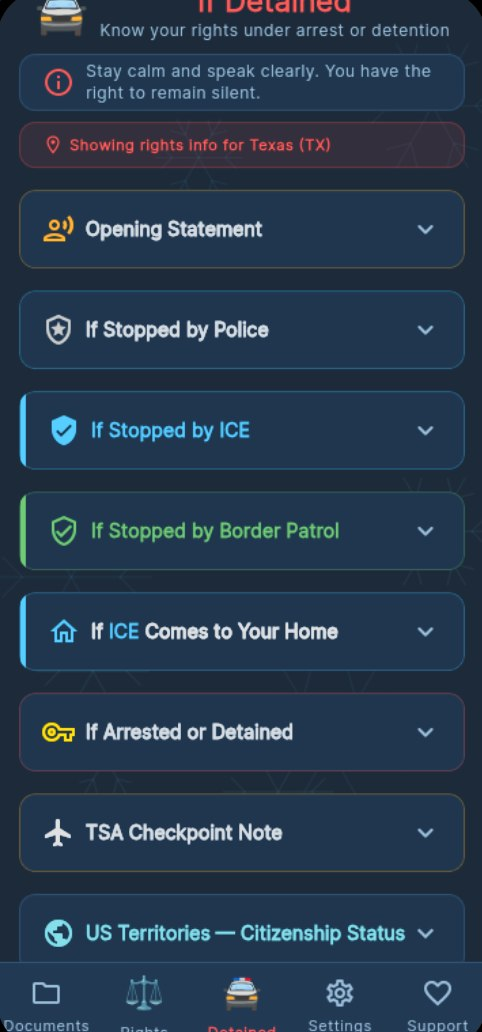
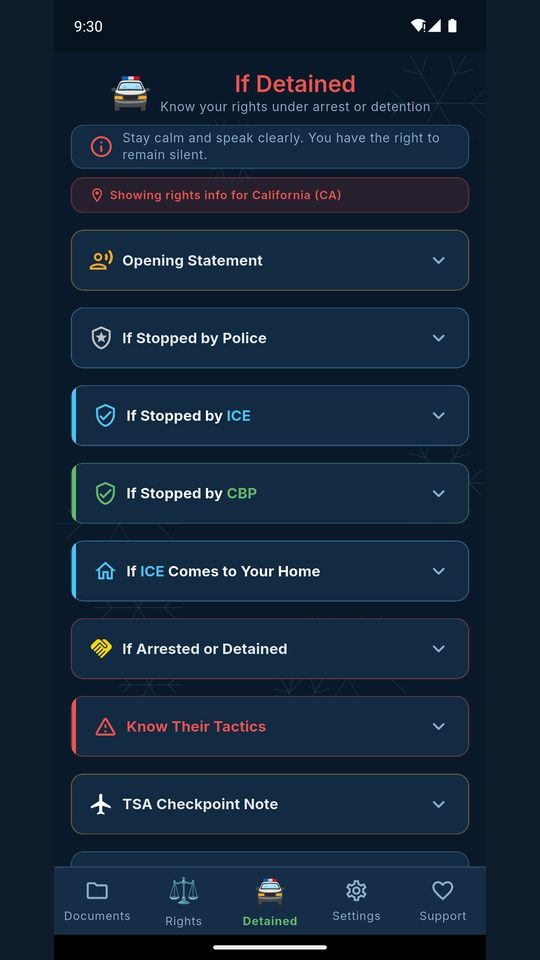
Phone preview: latest 5-card v2 (2.8.1) screenshots, matching the 2026-08-15 Play listing

diff --git a/index.html b/index.html
@@ -282,7 +282,7 @@ footer{border-top-color:var(--border);}
 <div class="facts-bar"><div class="ticker-track"><div class="ticker-group"><span class="fact-item">46 people died in ICE custody</span><span class="fact-item">Two-thirds held without charges</span><span class="fact-item">Girls 13-17 denied medical care</span><span class="fact-item">One death every 6 days</span><span class="fact-item">4,700 student visas terminated overnight</span></div><div class="ticker-group" aria-hidden="true"><span class="fact-item">46 people died in ICE custody</span><span class="fact-item">Two-thirds held without charges</span><span class="fact-item">Girls 13-17 denied medical care</span><span class="fact-item">One death every 6 days</span><span class="fact-item">4,700 student visas terminated overnight</span></div></div></div>
 <a href="#merch" class="merch-ribbon"><span class="merch-ribbon-tag">New</span><span>ICE Ready merch — tees from $22. Every purchase keeps the app free.</span><span class="merch-ribbon-cta">See the lineup →</span></a>
 <section class="section" id="features"><div class="section-label">Core Features</div><div class="section-title">Built For The Worst Case</div><div class="features-grid"><div class="feature"><div class="feature-num">01</div><div class="feature-icon">💳</div><h3>Document Vault</h3><p>Show your documents without handing them over. Copies of ID, passport, visa and birth certificate live on your phone, so the paper stays home — preventing your documents from going missing during an arrest or detention — and letting someone else find what you need to assist. Works offline. Stored only on your device, never uploaded.</p><span class="feature-tag">Keep the paper home. Carry the proof.</span></div><div class="feature"><div class="feature-num">02</div><div class="feature-icon">🛡</div><h3>Passcode Protection</h3><p>Step-by-step guidance to turn off Face ID and fingerprint unlock and set a strong phone passcode. Courts have repeatedly allowed police to compel a face or finger — a passcode is treated very differently.</p><span class="feature-tag">iPhone &amp; Android walkthroughs</span></div><div class="feature"><div class="feature-num">03</div><div class="feature-icon">📋</div><h3>Rights Cards</h3><p>Know your rights in your state, in your language. Refuse search scripts, lawyer contact scripts — instantly available.</p><span class="feature-tag">All 50 states</span></div><div class="feature"><div class="feature-num">04</div><div class="feature-icon">🎥</div><h3>Right to Record</h3><p>Know your right to record law enforcement in your state — with scripts for what to say while filming.</p><span class="feature-tag">Anyone near law enforcement</span></div><div class="feature"><div class="feature-num">05</div><div class="feature-icon">🔒</div><h3>Lock Screen Access</h3><p>Documents accessible without unlocking your phone. When hands are occupied or shaking — seconds matter.</p><span class="feature-tag">Coming in a free update</span></div><div class="feature"><div class="feature-num">06</div><div class="feature-icon">🎙</div><h3>Voice Trigger</h3><p>Hands-free activation when motor skills fail under stress. Trauma-informed design that competitors haven't considered.</p><span class="feature-tag">Coming in a free update</span></div></div></section>
-<section class="download-section" id="download"><div class="download-inner"><div class="download-copy"><div class="section-label">Download</div><h2>FREE. ALWAYS.</h2><p>ICE Ready is free for everyone. Every safety feature is free. No ads. No account. No paywall between a family and their rights.</p><p><strong>Your documents never leave your phone.</strong> Nothing is ever uploaded &mdash; there is no server, no account, no cloud. We couldn&rsquo;t see your documents if we wanted to.</p><div class="store-buttons"><!-- APPLE LAUNCH DAY: when the App Store approves, make the same swap on the App Store link below (remove coming-soon/aria-disabled/tabindex, set the App Store URL) --><a href="https://play.google.com/store/apps/details?id=com.icyberaillc.iceready" class="store-btn" rel="noopener"><img src="badges/google-play-badge.png" alt="Get it on Google Play" style="height:64px;width:auto;display:block;margin:-6px 0;"></a><a href="#" class="store-btn coming-soon" aria-disabled="true" tabindex="-1"><img src="badges/app-store-badge.svg" alt="Download on the App Store — coming soon" style="height:44px;width:auto;display:block;"></a><a href="https://app.primio.dev/ice-ready-456a" class="store-btn" rel="noopener"><div class="store-btn-icon">🌐</div><div class="store-btn-text"><small>Web demo — preview only</small><strong>Try in Browser</strong></div></a></div></div><div class="phone-wrap"><div class="phone-frame"><div class="phone-screen"><div class="phone-view"><div class="phone-cover"><div class="phone-app-header"><div class="phone-logo-dot">🧊</div><div class="phone-app-name">ICE READY</div></div><div class="phone-card"><div class="phone-card-label">Passport</div><div class="phone-card-title">US Passport</div></div><div class="phone-card"><div class="phone-card-label">Your Rights · California</div><div class="phone-card-title">You have the right to remain silent</div></div><div class="phone-card"><div class="phone-card-label">Emergency Contact</div><div class="phone-card-title">Attorney on file</div></div><div class="phone-record-btn">TAP TO RECORD</div></div><img class="phone-shot" alt="ICE Ready app screenshot"></div><div class="phone-tabbar"><!-- INTERIM: Settings/Support tabs removed until screenshots are retaken from the shipped v1.0.0 build (old shots show removed paywall/tip prices) --><button class="ptab" data-tab="documents" type="button"><span>📁</span>Documents</button><button class="ptab" data-tab="rights" type="button"><span>⚖</span>Rights</button><button class="ptab" data-tab="detained" type="button"><span>🚓</span>Detained</button></div></div></div><p class="phone-hint">▲ Tap a tab to preview the real app</p></div></div></section>
+<section class="download-section" id="download"><div class="download-inner"><div class="download-copy"><div class="section-label">Download</div><h2>FREE. ALWAYS.</h2><p>ICE Ready is free for everyone. Every safety feature is free. No ads. No account. No paywall between a family and their rights.</p><p><strong>Your documents never leave your phone.</strong> Nothing is ever uploaded &mdash; there is no server, no account, no cloud. We couldn&rsquo;t see your documents if we wanted to.</p><div class="store-buttons"><!-- APPLE LAUNCH DAY: when the App Store approves, make the same swap on the App Store link below (remove coming-soon/aria-disabled/tabindex, set the App Store URL) --><a href="https://play.google.com/store/apps/details?id=com.icyberaillc.iceready" class="store-btn" rel="noopener"><img src="badges/google-play-badge.png" alt="Get it on Google Play" style="height:64px;width:auto;display:block;margin:-6px 0;"></a><a href="#" class="store-btn coming-soon" aria-disabled="true" tabindex="-1"><img src="badges/app-store-badge.svg" alt="Download on the App Store — coming soon" style="height:44px;width:auto;display:block;"></a><a href="https://app.primio.dev/ice-ready-456a" class="store-btn" rel="noopener"><div class="store-btn-icon">🌐</div><div class="store-btn-text"><small>Web demo — preview only</small><strong>Try in Browser</strong></div></a></div></div><div class="phone-wrap"><div class="phone-frame"><div class="phone-screen"><div class="phone-view"><div class="phone-cover"><div class="phone-app-header"><div class="phone-logo-dot">🧊</div><div class="phone-app-name">ICE READY</div></div><div class="phone-card"><div class="phone-card-label">Passport</div><div class="phone-card-title">US Passport</div></div><div class="phone-card"><div class="phone-card-label">Your Rights · California</div><div class="phone-card-title">You have the right to remain silent</div></div><div class="phone-card"><div class="phone-card-label">Emergency Contact</div><div class="phone-card-title">Attorney on file</div></div><div class="phone-record-btn">TAP TO RECORD</div></div><img class="phone-shot" alt="ICE Ready app screenshot"></div><div class="phone-tabbar"><!-- v2 (2.8.1) screenshots, 2026-08-15 — same 5-card set as the Play listing --><button class="ptab" data-tab="passcode" type="button"><span>🛡</span>Passcode</button><button class="ptab" data-tab="documents" type="button"><span>📁</span>Documents</button><button class="ptab" data-tab="rights" type="button"><span>⚖</span>Rights</button><button class="ptab" data-tab="detained" type="button"><span>🚓</span>Detained</button><button class="ptab" data-tab="hotlines" type="button"><span>📞</span>Hotlines</button></div></div></div><p class="phone-hint">▲ Tap a tab to preview the real app</p></div></div></section>
 <section class="merch-section" id="merch"><div class="merch-inner"><div class="section-label">Store · Drop 001</div><div class="section-title">Wear The Movement</div><p class="merch-sub"><strong>Every purchase keeps the app free.</strong> No ads, no data selling, no paywall between a family and their rights — merch is how this stays true. Join the waitlist and you'll get first access when the drop goes live.</p><div class="merch-grid"><div class="merch-card"><div class="merch-img"><img src="balon-full-flags-640.webp" alt="El Balón de las Américas — Full Flags ball: 19 flags edge to edge, gold trophy panel" loading="lazy" decoding="async" style="width:100%;height:100%;object-fit:cover;display:block;"><span class="merch-flag">19 Naciones</span></div><div class="merch-info"><div class="merch-title-row"><h4>El Balón de las Américas — Full Flags</h4><span class="merch-price">Coming Soon</span></div><p>Every hexagon a nation. The flags of 19 Spanish-speaking countries of the Américas, printed edge to edge, with a gold trophy panel for the host. Size 5, match-quality, made to play.</p><a href="mailto:support@iceready.app?subject=Waitlist: Full Flags Ball" class="merch-notify">Join the waitlist</a></div></div><div class="merch-card"><div class="merch-img"><img src="balon-little-flags-640.webp" alt="El Balón de las Américas — Little Flags ball: small flags on white, nickel trophy" loading="lazy" decoding="async" style="width:100%;height:100%;object-fit:cover;display:block;"><span class="merch-flag">Las Américas Unidas</span></div><div class="merch-info"><div class="merch-title-row"><h4>El Balón de las Américas — Little Flags</h4><span class="merch-price">Coming Soon</span></div><p>The collector&rsquo;s cut. 19 small flags on clean white panels — Puerto Rico in its original celeste — with a brushed-nickel trophy carrying the Américas on its face. <em>Las Américas Unidas.</em></p><a href="mailto:support@iceready.app?subject=Waitlist: Little Flags Ball" class="merch-notify">Join the waitlist</a></div></div><div class="merch-card"><div class="merch-img"><img src="balon-gold-title-640.webp" alt="El Balón de las Américas — Gold Title ball: the name in gold and white across three panels, gold trophy below" loading="lazy" decoding="async" style="width:100%;height:100%;object-fit:cover;display:block;"><span class="merch-flag">Edición de Oro</span></div><div class="merch-info"><div class="merch-title-row"><h4>El Balón de las Américas — Gold Title</h4><span class="merch-price">Coming Soon</span></div><p>The name says it — in gold. <em>EL BALÓN DE LAS AMÉRICAS</em> written across three panels, white and gold arcing over the golden trophy. All 19 flags still ride the ball. Size 5, match-quality, made to play.</p><a href="mailto:support@iceready.app?subject=Waitlist: Gold Title Ball" class="merch-notify">Join the waitlist</a></div></div><div class="merch-card"><div class="merch-img"><svg viewBox="0 0 220 200" id="logo-tee-svg" role="img" aria-label="ICE Ready logo tee mockup"><defs><linearGradient id="t1b" x1="0" y1="0" x2="0" y2="1"><stop id="t1b-top" offset="0" stop-color="#ffffff"/><stop id="t1b-bot" offset="1" stop-color="#dff0fa"/></linearGradient></defs><ellipse cx="110" cy="188" rx="62" ry="7" fill="#000" opacity="0.45"/><path id="t1b-body" d="M78,26 L96,18 Q110,32 124,18 L142,26 L174,46 L160,76 L144,65 L144,174 Q110,181 76,174 L76,65 L60,76 L46,46 Z" fill="url(#t1b)" stroke="#cdd6df" stroke-width="1.5"/><path id="t1b-collar" d="M96,18 Q110,34 124,18 Q110,44 96,18" fill="#d3dbe3"/><path d="M144,65 L144,174 Q127,178 110,178 L110,72 Z" fill="#000" opacity="0.07"/><polygon points="62,42 88,30 72,168 52,158" fill="#000" opacity="0.03"/><image id="logo-tee-img" href="shield-logo-128.webp" x="119" y="58" width="21" height="21"/></svg><span class="merch-flag">Front + Back</span></div><div class="merch-info"><div class="tee-swatches"><button class="tee-swatch swatch-active" data-top="#ffffff" data-bot="#dff0fa" data-collar="#d3dbe3" data-stroke="#cdd6df" data-logo="iceblue_logo-128.webp" style="background:#fff;" title="White"></button><button class="tee-swatch" data-top="#d0dce8" data-bot="#b8c8d8" data-collar="#b0c0d0" data-stroke="#9aaabb" data-logo="iceblue_logo-128.webp" style="background:#c0ceda;" title="Light Grey"></button><button class="tee-swatch" data-top="#4a5568" data-bot="#2d3748" data-collar="#3d4a5c" data-stroke="#5a6a7a" data-logo="ice_ready_fixed-128.webp" style="background:#3d4a5c;" title="Dark Grey"></button><button class="tee-swatch" data-top="#1a1a22" data-bot="#0a0a10" data-collar="#252530" data-stroke="#3a3a48" data-logo="ice_ready_fixed-128.webp" style="background:#111;" title="Black"></button></div><div class="merch-title-row"><h4>ICE Ready Logo Tee</h4><span class="merch-price">$22</span></div><p>White heavyweight cotton. Logo on the left chest. ICE READY APP in icicle blue across the back with a scannable QR code beneath — close enough to read it, close enough to scan it.</p><a href="mailto:support@iceready.app?subject=Waitlist: Logo Tee" class="merch-notify">Join the waitlist</a></div></div><div class="merch-card"><div class="merch-img"><svg viewBox="0 0 220 200" role="img" aria-label="Taco Break mug mockup"><defs><linearGradient id="mgb" x1="0" y1="0" x2="1" y2="0"><stop offset="0" stop-color="#fafcfe"/><stop offset="0.7" stop-color="#e3eaef"/><stop offset="1" stop-color="#c3cdd6"/></linearGradient><linearGradient id="mshade" x1="0" y1="0" x2="1" y2="0"><stop offset="0" stop-color="#fff" stop-opacity="0.2"/><stop offset="0.35" stop-color="#fff" stop-opacity="0"/><stop offset="0.85" stop-color="#000" stop-opacity="0.16"/><stop offset="1" stop-color="#000" stop-opacity="0.3"/></linearGradient><clipPath id="mclip"><path d="M62,60 Q62,52 72,52 L138,52 Q148,52 148,60 L148,160 Q148,172 134,172 L76,172 Q62,172 62,160 Z"/></clipPath></defs><ellipse cx="108" cy="182" rx="58" ry="7" fill="#000" opacity="0.45"/><path d="M148,80 Q188,84 184,112 Q180,140 148,142" fill="none" stroke="#b9c4cd" stroke-width="13"/><path d="M148,80 Q188,84 184,112 Q180,140 148,142" fill="none" stroke="#eef2f5" stroke-width="9"/><path d="M62,60 Q62,52 72,52 L138,52 Q148,52 148,60 L148,160 Q148,172 134,172 L76,172 Q62,172 62,160 Z" fill="url(#mgb)"/><ellipse cx="105" cy="53" rx="43" ry="7" fill="#dfe6ec"/><ellipse cx="105" cy="53" rx="36" ry="5" fill="#aeb9c2"/><image href="taco_chihuahua.jpg" x="62" y="58" width="86" height="114" preserveAspectRatio="xMidYMid slice" clip-path="url(#mclip)"/><path d="M62,60 Q62,52 72,52 L138,52 Q148,52 148,60 L148,160 Q148,172 134,172 L76,172 Q62,172 62,160 Z" fill="url(#mshade)"/></svg></div><div class="merch-info"><div class="merch-title-row"><h4>Taco Break Mug</h4><span class="merch-price">$14</span></div><p>The schoolyard chihuahua &ldquo;Roo Roo,&rdquo; mid-taco, leaning on the wall where &ldquo;give me your tired, your poor&rdquo; is sprayed in graffiti script. ICE READY in icicle blue on the flip side.</p><a href="mailto:support@iceready.app?subject=Waitlist: Taco Break Mug" class="merch-notify">Join the waitlist</a></div></div><div class="merch-card"><div class="merch-img"><div class="sticker-pager" id="sticker-pager"><div class="sticker-page sticker-page-active" data-page="0"><div class="sticker-item"><img src="sticker-shield-sq.webp" alt="ICE Ready shield sticker" loading="lazy" decoding="async"></div><div class="sticker-item"><img src="sticker-gator-sq.webp" alt="Cuba alligator sticker - LEGO-style gator in Cuba cap and tee" loading="lazy" decoding="async"></div><div class="sticker-item"><img src="sticker-mex-kid-sq.webp" alt="Mexico Kid sticker - chihuahua boy with MEXICO shirt and Mexico flag cap" loading="lazy" decoding="async"></div><div class="sticker-item"><img src="sticker-peru-kid-sq.webp" alt="Peru Kid sticker - chihuahua with Peru flag cap" loading="lazy" decoding="async"></div></div><div class="sticker-page" data-page="1"><div class="sticker-item"><img src="sticker-cube-black-sq.webp" alt="Melting ice cube sticker — Statue of Liberty poem" loading="lazy" decoding="async"></div><div class="sticker-item"><img src="sticker-cube-clear-sq.webp" alt="Melting ice cube sticker — Know Your Rights" loading="lazy" decoding="async"></div><div class="sticker-item"><img src="sticker-spike-sq.webp" alt="Spike vs. the melting Blockhead sticker" loading="lazy" decoding="async"></div></div><div class="sticker-pager-nav"><span class="sticker-pager-dots" id="sticker-pager-dots">1/2</span><button type="button" class="sticker-pager-btn" id="sticker-pager-next" aria-label="Next sticker set">&gt;</button></div></div></div><div class="merch-info"><div class="merch-title-row"><h4>Sticker Pack</h4><span class="merch-price">$5</span></div><p>Die-cut vinyl stickers, two sets to choose from: the ICE Ready shield, the Cuba gator, Mex Kid and Peru Kid &mdash; or flip to two melting ice cubes (Statue of Liberty poem &amp; Know Your Rights) plus Spike vs. the melting Blockhead. Weatherproof.</p><a href="mailto:support@iceready.app?subject=Waitlist: Sticker Pack" class="merch-notify">Join the waitlist</a></div></div><div class="merch-card"><div class="merch-img"><img id="cap-photo" src="ice_ready_cap_lightblue.webp" alt="ICE Ready cap — front-facing trucker cap with shield logo on the front panel" loading="lazy" decoding="async" style="width:100%;height:100%;object-fit:cover;display:block;"></div><div class="merch-info"><div class="cap-swatches"><button class="cap-swatch swatch-active" data-photo="ice_ready_cap_lightblue.webp" style="background:#7ec8f0;" title="Light Blue / Nickel"></button><button class="cap-swatch" data-photo="ice_ready_cap_navy.webp" style="background:#1c2f4a;" title="Navy / Gunmetal"></button></div><div class="merch-title-row"><h4>ICE Ready Cap</h4><span class="merch-price">$22</span></div><p>White structured 6-panel. ICE READY in icicle blue across the front, fine print beneath: Know Your Rights &middot; iceready.app. Adjustable strap. Available in light blue (nickel shield) or navy (gunmetal shield).</p><a href="mailto:support@iceready.app?subject=Waitlist: Cap" class="merch-notify">Join the waitlist</a></div></div><div class="merch-card"><div class="merch-img"><svg viewBox="0 0 220 200" role="img" aria-label="Canvas tote mockup"><defs><linearGradient id="totb" x1="0" y1="0" x2="1" y2="1"><stop offset="0" stop-color="#e2d8bd"/><stop offset="1" stop-color="#c2b48e"/></linearGradient><linearGradient id="tottx" x1="0" y1="0" x2="0" y2="1"><stop offset="0" stop-color="#dff6ff"/><stop offset="1" stop-color="#00c8ff"/></linearGradient></defs><ellipse cx="110" cy="188" rx="58" ry="7" fill="#000" opacity="0.45"/><path d="M84,66 Q84,28 110,28 Q136,28 136,66" fill="none" stroke="#9c8c64" stroke-width="7"/><path d="M84,66 Q84,30 110,30 Q136,30 136,66" fill="none" stroke="#b8a87e" stroke-width="4"/><path d="M60,64 L160,64 L154,180 Q110,187 66,180 Z" fill="url(#totb)" stroke="#a4946a" stroke-width="1"/><path d="M75,70 L72,176 M145,70 L148,176" stroke="#000" opacity="0.08" stroke-width="2" fill="none"/><text x="110" y="104" text-anchor="middle" font-family="'Bebas Neue',sans-serif" font-size="21" letter-spacing="2" fill="#16202e">KNOW</text><text x="110" y="126" text-anchor="middle" font-family="'Bebas Neue',sans-serif" font-size="21" letter-spacing="2" fill="#16202e">YOUR</text><text x="110" y="148" text-anchor="middle" font-family="'Bebas Neue',sans-serif" font-size="21" letter-spacing="2" fill="#16202e">RIGHTS</text><text x="110" y="164" text-anchor="middle" font-family="'Bebas Neue',sans-serif" font-size="8" letter-spacing="1.5" fill="url(#tottx)">ICE READY APP</text></svg></div><div class="merch-info"><div class="merch-title-row"><h4>Canvas Tote</h4><span class="merch-price">$15</span></div><p>Heavy canvas tote. <em>Know Your Rights</em> front, <em>14th Amendment</em> on the back — birthright citizenship, equal protection, due process. Carries groceries and a cause.</p><a href="mailto:support@iceready.app?subject=Waitlist: Tote" class="merch-notify">Join the waitlist</a></div></div></div><div class="merch-foot"><span>Full store launching at shop.iceready.app</span><span>Printed on demand in the USA · Profits fund the free app</span></div></div></section>
 <section class="mission-section" id="mission"><div class="mission-inner"><div class="section-label">Our Mission</div><div class="mission-grid"><div class="mission-text"><div class="mission-quote">America Has Done This Before.<br>This Time You Can Be Prepared.</div><p>ICE Ready was built on a simple conviction: fear should never be the reason someone doesn't know their rights. The Constitution doesn't ask where you were born — due process and equal protection belong to everyone. And when those rights can be stripped from one community, no one's rights are safe.</p><p>This app is for anyone the system is failing — the profiled, the detained, the families answering a knock at the door. It is free and it will stay free. No ads. No data selling. No paywall between a family and their rights. Built by iCyberAI LLC.</p></div><aside class="mission-resources"><div class="mission-resources-label">Track The Data</div><ul><li><a href="https://www.aclu.org/know-your-rights/immigrants-rights" target="_blank" rel="noopener">ACLU — Immigrants' Rights</a><span>Know your rights: ICE at the door, the 100-mile border zone, airports</span></li><li><a href="https://detentionreports.com" target="_blank" rel="noopener">DetentionReports.com</a><span>Real-time data on every ICE detention facility</span></li><li><a href="https://www.theguardian.com/us-news/ng-interactive/2025/aug/29/trump-immigration-ice-cbp-data" target="_blank" rel="noopener">The Guardian ICE Tracker</a><span>Arrests, detentions &amp; deportations, by the numbers</span></li><li><a href="https://deportationdata.org" target="_blank" rel="noopener">Deportation Data Project</a><span>Where arrests happen — government records via FOIA (UC Berkeley Law)</span></li><li><a href="https://www.youtube.com/watch?v=uD9ETC80HDA" target="_blank" rel="noopener">WIRED: Where ICE Takes People</a><span>Mapped — the states and facilities with the most arrests and detentions</span></li><li><a href="https://ground.news" target="_blank" rel="noopener">Ground News</a> &middot; <a href="https://www.politico.com" target="_blank" rel="noopener">Politico</a><span>Read past your feed — news from real sources</span></li></ul><p class="mission-resources-note">External resources — not affiliated with ICE Ready, accuracy not guaranteed.</p></aside></div><div class="mission-gallery"><figure><img src="we_are_still_here_native_american.webp" alt="We Are Still Here 250 Years Later — celebrating Indigenous existence since time immemorial" data-lightbox="we_are_still_here_native_american.webp"><figcaption>We Are Still Here · 250 Years Later</figcaption></figure><figure><img src="alternate_history_map_american_indian.webp" alt="A More Native America — alternate history map imagining surviving Native nations' borders" data-lightbox="alternate_history_map_american_indian.webp"><figcaption>A More Native America · An exercise in alternate history<br><a href="https://indigenouspeoplesresources.com/" target="_blank" rel="noopener" style="color:#41607a;text-decoration:underline;">Map credit (if derived from their work): indigenouspeoplesresources.com</a></figcaption></figure><figure><img src="indian-tribes-map-1800.jpg" alt="USGS National Atlas map: Early Indian Tribes, Culture Areas, and Linguistic Stocks" loading="lazy" data-lightbox="indian-tribes-map-1800.jpg"><figcaption>Early Indian Tribes &amp; Culture Areas · USGS National Atlas, 1967</figcaption></figure><figure><img src="us_territorial_acquisitions.jpg" alt="Map of U.S. territorial acquisitions, 1783-1917" loading="lazy" data-lightbox="us_territorial_acquisitions.jpg"><figcaption>U.S. Territorial Acquisitions, 1783&ndash;1917 · The borders moved first.</figcaption></figure><figure><img src="us_250th_anniversary.webp" alt="U.S. 250th Anniversary — Independence, Freedom, Democracy, 1776-2026" loading="lazy" data-lightbox="us_250th_anniversary.webp"><figcaption>U.S. 250th Anniversary · July 4, 2026</figcaption></figure></div>
 <div class="mission-lightbox" id="mission-lightbox"><button class="mission-lightbox-close" id="mission-lightbox-close">CLOSE ✕</button><img id="mission-lightbox-img" src="" alt=""></div></div></section>
@@ -299,7 +299,7 @@ footer{border-top-color:var(--border);}
     var probe=new Image();
     probe.onload=function(){shot.src=probe.src;shot.style.display='block';cover.style.display='none';};
     probe.onerror=function(){shot.style.display='none';cover.style.display='flex';};
-    probe.src='appscreens/'+b.getAttribute('data-tab')+'.jpg?v=4';
+    probe.src='appscreens/'+b.getAttribute('data-tab')+'.jpg?v=5';
   });});
   var ptabs=Array.prototype.slice.call(document.querySelectorAll('.ptab'));
   if(ptabs.length){
